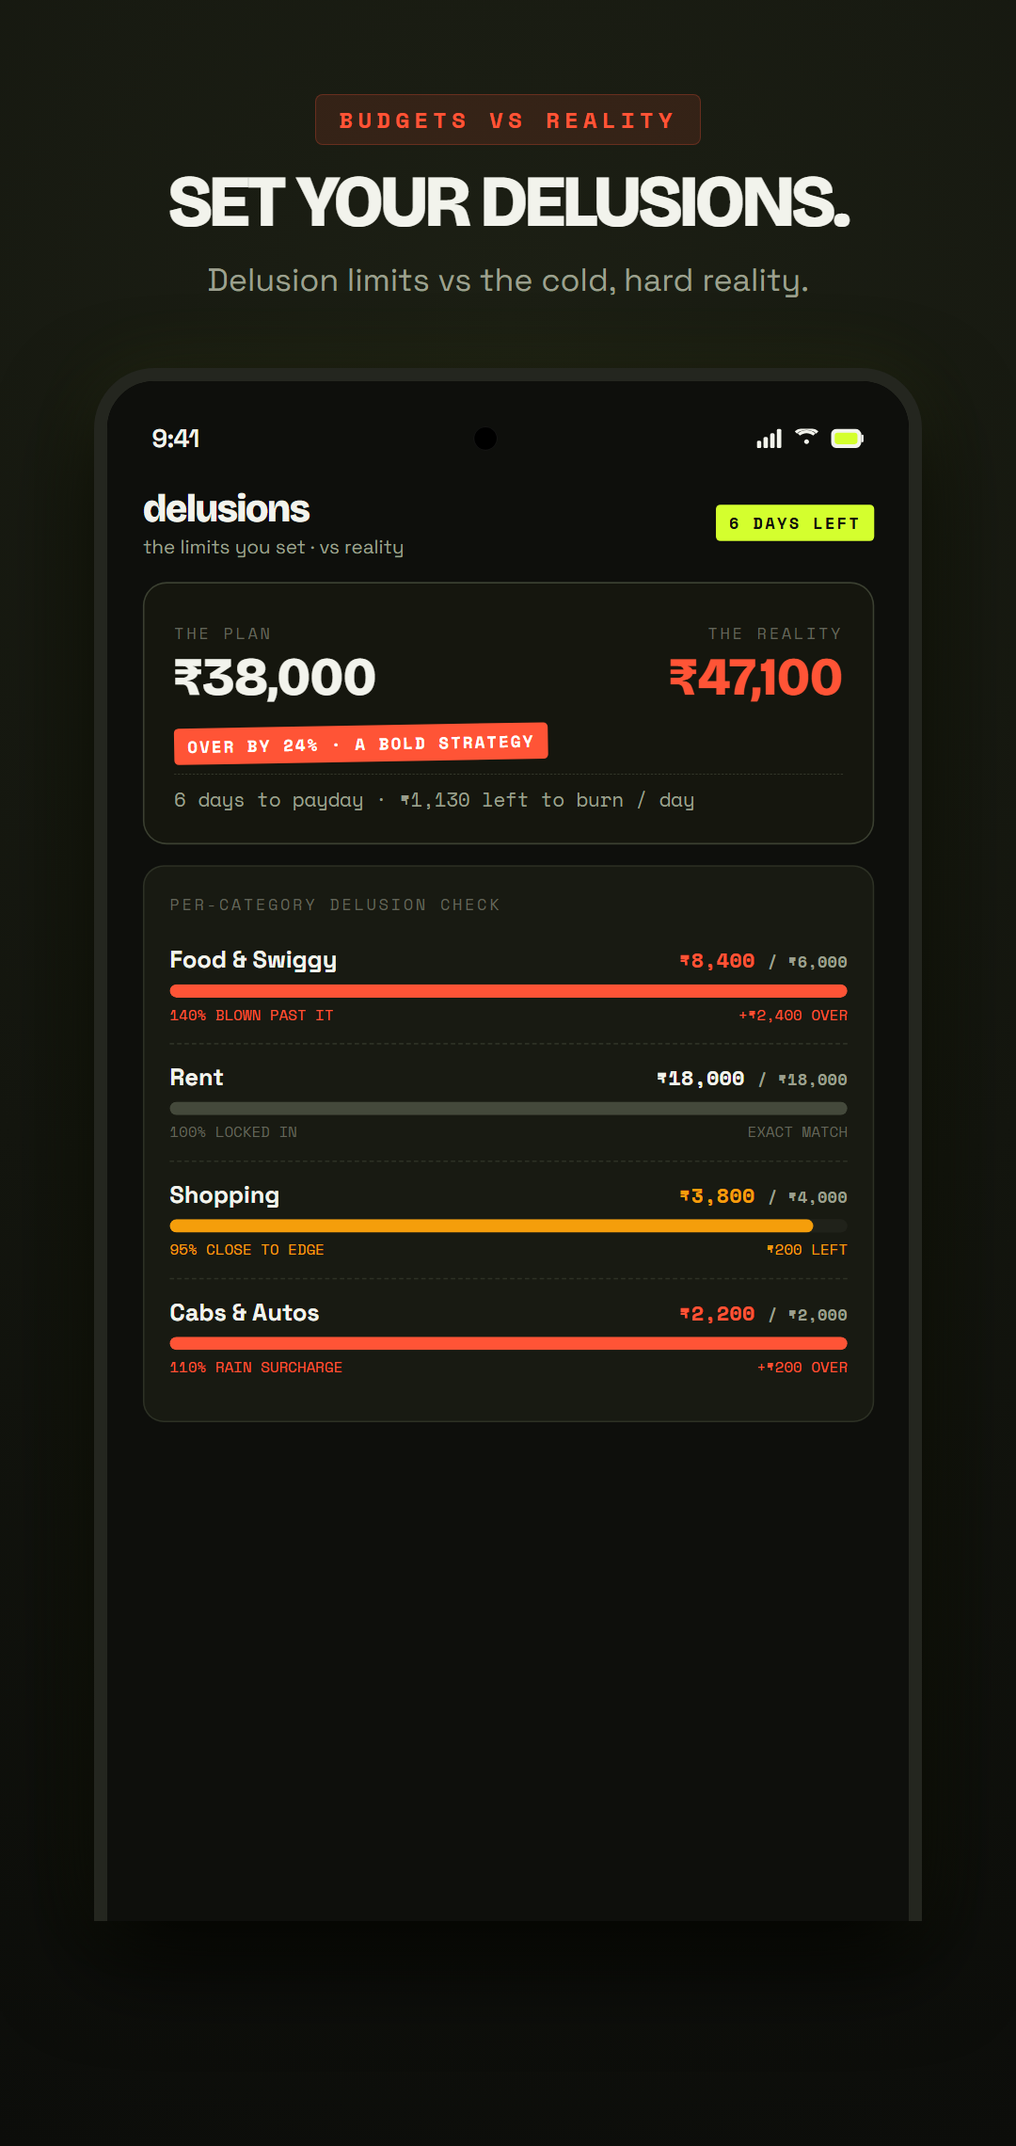
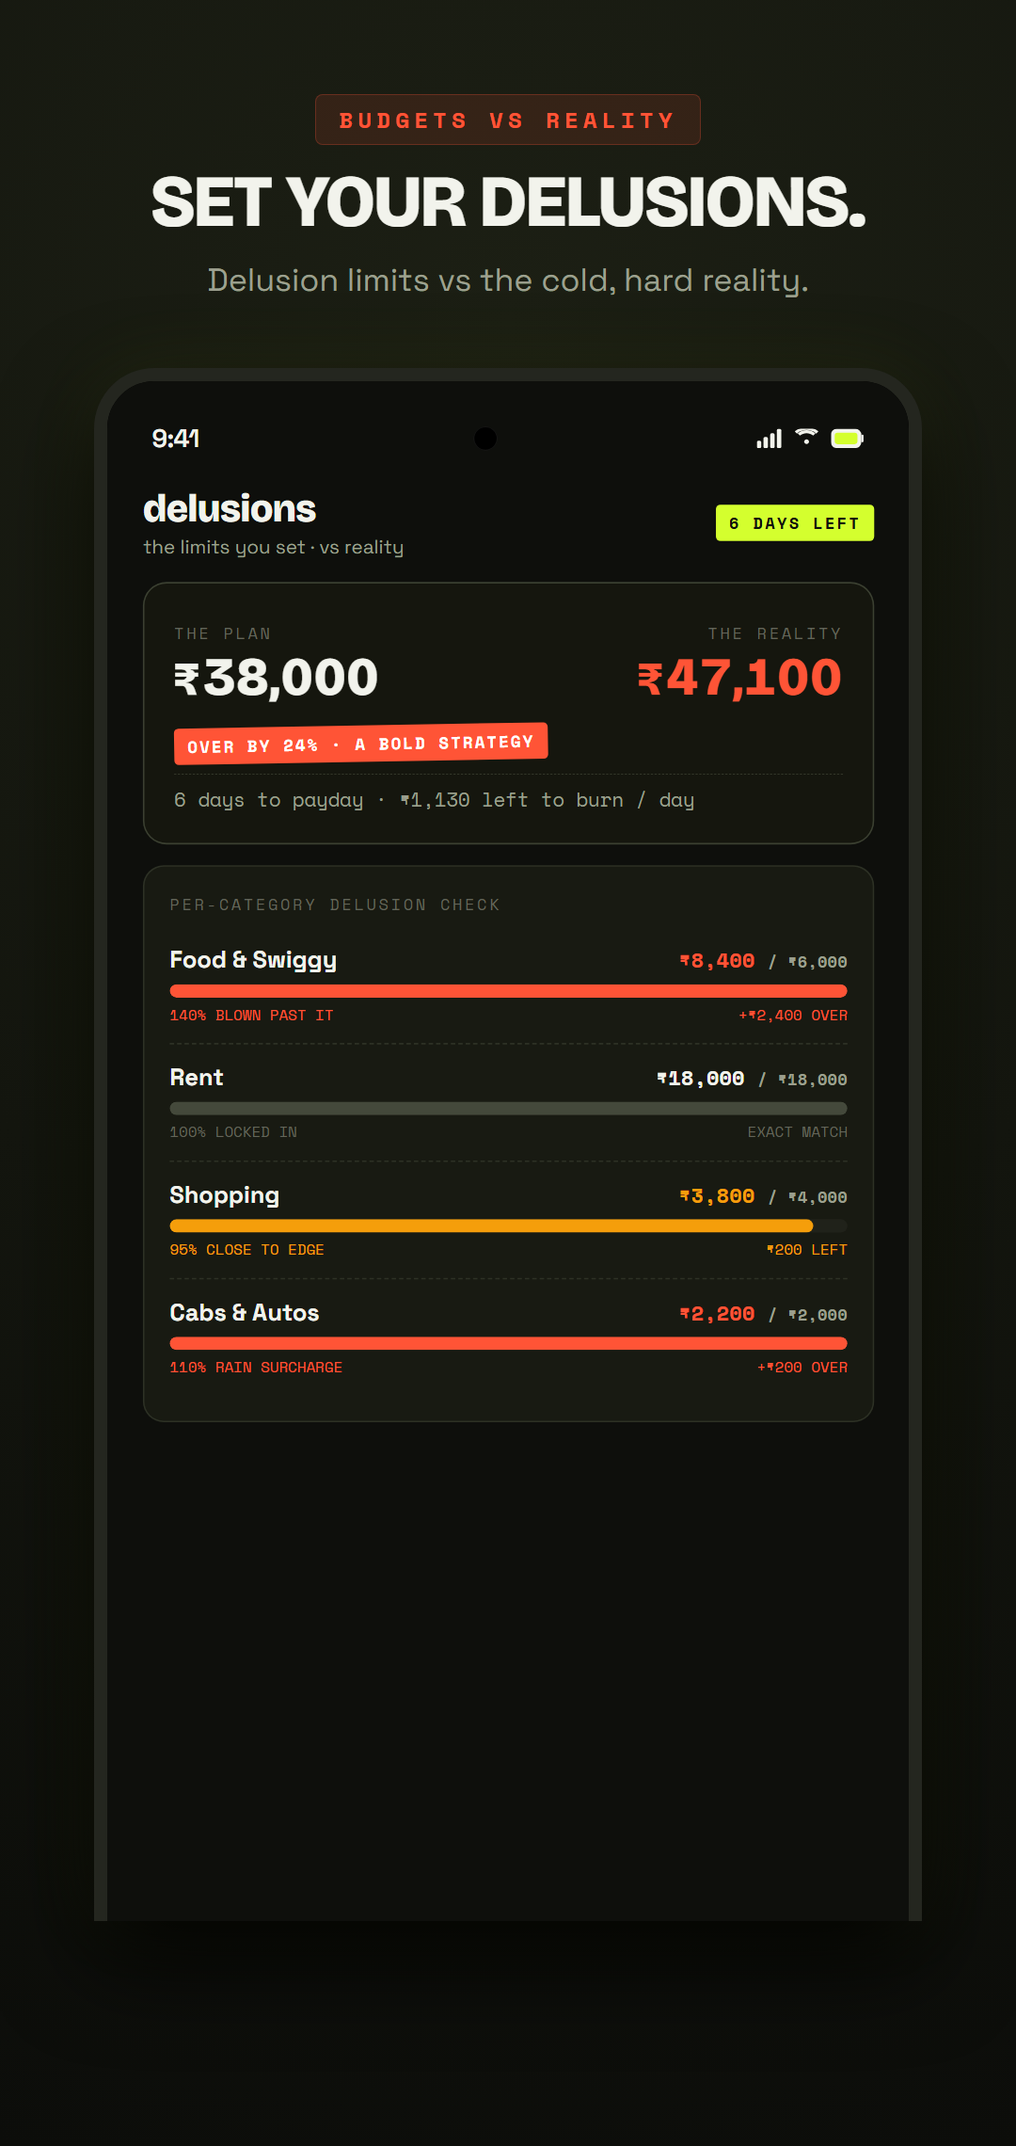
style: remove em dashes and fix congested typography in hero amount and screenshots

diff --git a/src/services/aiAdvice.js b/src/services/aiAdvice.js
@@ -19,13 +19,13 @@ function buildSystemPrompt(tone, nihil) {
 Write exactly 3 verdict lines about this month's spending. Each must:
 - Reference real rupee amounts from the data
 - Be specific and personal, not generic advice
-- Be 1–2 sentences max
+- Be 1-2 sentences max
 
 Return a JSON array of exactly 3 objects:
 [{"tag": "FOOD", "line": "...", "sub": "..."}]
-- "tag": 4–6 char UPPERCASE category label (FOOD, MOVE, DOOM, SHOP, SUBS, RENT, etc.)
+- "tag": 4-6 char UPPERCASE category label (FOOD, MOVE, DOOM, SHOP, SUBS, RENT, etc.)
 - "line": the verdict sentence(s)
-- "sub": a dry 3–6 word footnote
+- "sub": a dry 3-6 word footnote
 
 Examples for dry tone:
 [
@@ -49,7 +49,7 @@ export async function askAI({ question, cats, total, income }) {
     ? `Monthly income: ₹${income.toLocaleString('en-IN')}. Spent: ₹${Math.round(total).toLocaleString('en-IN')} (${Math.round(total / income * 100)}%).`
     : `Total spent: ₹${Math.round(total).toLocaleString('en-IN')}.`;
   const catCtx = cats.slice(0, 5).map(c => `${c.label}: ₹${Math.round(c.amount).toLocaleString('en-IN')}`).join(', ');
-  const system = 'You are Tally, a personal finance AI for Indian users. Answer concisely in 2–3 sentences. Reference specific rupee amounts from the spending data. No markdown, no bullet points, no emoji.';
+  const system = 'You are Tally, a personal finance AI for Indian users. Answer concisely in 2-3 sentences. Reference specific rupee amounts from the spending data. No markdown, no bullet points, no emoji.';
   const content = `Spending data: ${incomeCtx} Categories: ${catCtx}.\n\nQuestion: ${question}`;
   try {
     return await callAnthropic(system, content);
@@ -134,7 +134,7 @@ function buildFallbackVerdict(cats, total, income, tone) {
     const c = cats[1];
     results.push(unhinged
       ? { tag: c.tag, line: `₹${fmt(c.amount)} on ${c.label.toLowerCase()} too. two-front war on your wallet.`, sub: 'the second biggest hole' }
-      : { tag: c.tag, line: `${c.label} at ₹${fmt(c.amount)} — runner-up damage.`, sub: 'second largest category' }
+      : { tag: c.tag, line: `${c.label} at ₹${fmt(c.amount)} · runner-up damage.`, sub: 'second largest category' }
     );
   }
 

diff --git a/src/tally/screens/TxDetailSheet.js b/src/tally/screens/TxDetailSheet.js
@@ -195,7 +195,7 @@ export default function TxDetailSheet({ visible, tx, onClose }) {
             <Rule T={T} />
             <View style={{ paddingVertical: 13 }}><Leader T={T} label="type" value={credit ? 'credit' : 'debit'} /></View>
             <Rule T={T} />
-            <View style={{ paddingVertical: 13 }}><Leader T={T} label="when" value={tx.when || '—'} /></View>
+            <View style={{ paddingVertical: 13 }}><Leader T={T} label="when" value={tx.when || '-'} /></View>
             <Rule T={T} />
           </View>
 
@@ -210,7 +210,7 @@ export default function TxDetailSheet({ visible, tx, onClose }) {
                   <View key={t.id}>
                     {i > 0 && <Rule T={T} />}
                     <View style={{ flexDirection: 'row', justifyContent: 'space-between', alignItems: 'center', paddingVertical: 9 }}>
-                      <MonoLabel T={T} color={T.dim} size={10.5}>{t.when || t.txn_date?.slice(0, 10) || '—'}</MonoLabel>
+                      <MonoLabel T={T} color={T.dim} size={10.5}>{t.when || t.txn_date?.slice(0, 10) || '-'}</MonoLabel>
                       <Text style={{ fontFamily: FONTS.monoBold, fontSize: 13, color: T.text }}>−{fmtINR(t.amount)}</Text>
                     </View>
                   </View>

diff --git a/src/tally/screens/HomeScreen.js b/src/tally/screens/HomeScreen.js
@@ -13,7 +13,7 @@ import { writeWidgetCache } from '../../services/widgetSync';
 function buildRead(top, total) {
   if (!top || total <= 0) return "no damage logged yet. suspicious, honestly.";
   const pct = Math.round((top.amount / total) * 100);
-  return `${fmtINR(top.amount)} on ${top.label.toLowerCase()} — ${pct}% of everything. bold strategy.`;
+  return `${fmtINR(top.amount)} on ${top.label.toLowerCase()} · ${pct}% of everything. bold strategy.`;
 }
 
 // Local calendar-day key (not toISOString, which is UTC and rolls back to the
@@ -349,7 +349,7 @@ export default function HomeScreen({ navigation }) {
           <MonoLabel T={T} color={T.dim} size={9.5} style={{ marginTop: 3 }}>spends</MonoLabel>
         </View>
         <View style={{ flex: 1, backgroundColor: T.card, borderWidth: 1, borderColor: T.line, borderRadius: 14, padding: 14 }}>
-          <Text style={{ fontFamily: FONTS.display, fontSize: 22, color: accent }}>{top ? top.tag : '—'}</Text>
+          <Text style={{ fontFamily: FONTS.display, fontSize: 22, color: accent }}>{top ? top.tag : '-'}</Text>
           <MonoLabel T={T} color={T.dim} size={9.5} style={{ marginTop: 3 }}>
             {top ? `top · ${fmtINR(top.amount)}` : 'no top yet'}
           </MonoLabel>

diff --git a/src/tally/screens/Paywall.js b/src/tally/screens/Paywall.js
@@ -6,7 +6,7 @@ import { FONTS } from '../theme';
 import { MonoLabel, Btn, Tag, Brand } from '../ui';
 
 const PERKS = [
-  ['FULL', 'every transaction, forever — not just 30 days'],
+  ['FULL', 'every transaction, forever · not just 30 days'],
   ['AI++', 'unlimited unhinged verdicts + weekly roasts'],
   ['RECEIPT', 'hi-res shareable receipts, no watermark'],
   ['BANKS', 'connect unlimited accounts & cards'],
@@ -125,7 +125,7 @@ export default function Paywall({ visible, onClose }) {
 
             <View style={{ marginTop: 18 }}>
               <Btn T={T} accent={accent} accentInk={accentInk} onPress={handlePurchase} disabled={busy || rcLoading}>
-                {busy ? <ActivityIndicator color={accentInk} size="small" /> : 'start — first 7 days free'}
+                {busy ? <ActivityIndicator color={accentInk} size="small" /> : 'start · first 7 days free'}
               </Btn>
             </View>
 

diff --git a/landing/index.html b/landing/index.html
@@ -3,9 +3,9 @@
 <head>
 <meta charset="UTF-8" />
 <meta name="viewport" content="width=device-width, initial-scale=1.0" />
-<title>tally — track the damage</title>
+<title>tally · track the damage</title>
 <meta name="description" content="A snarky AI money manager that reads your bank SMS, logs every spend, and tells you how badly you blew it. Coming soon." />
-<meta property="og:title" content="tally — track the damage. financially feral." />
+<meta property="og:title" content="tally · track the damage. financially feral." />
 <meta property="og:description" content="The money app for people who already know it's bad and want to watch anyway." />
 <link rel="preconnect" href="https://fonts.googleapis.com" />
 <link rel="preconnect" href="https://fonts.gstatic.com" crossorigin />

diff --git a/src/tally/screens/BudgetScreen.js b/src/tally/screens/BudgetScreen.js
@@ -98,7 +98,7 @@ export default function BudgetScreen() {
         <View style={{ marginTop: 24, backgroundColor: T.card, borderWidth: 1, borderColor: T.line, borderRadius: 16, padding: 20 }}>
           <MonoLabel T={T} color={T.dim} size={10.5}>no delusions set yet.</MonoLabel>
           <Text style={{ fontFamily: FONTS.sans, fontSize: 14, lineHeight: 20, color: T.dim, marginTop: 8 }}>
-            set a monthly limit for any category below. we'll tell you when you're about to blow it — and when you already have.
+            set a monthly limit for any category below. we'll tell you when you're about to blow it, and when you already have.
           </Text>
         </View>
       )}

diff --git a/src/tally/screens/DamageScreen.js b/src/tally/screens/DamageScreen.js
@@ -179,7 +179,7 @@ export default function DamageScreen() {
           <View style={{ paddingVertical: 16, borderBottomWidth: 1.5, borderStyle: 'dashed',
             borderBottomColor: T.lineStrong, gap: 11 }}>
             {cats.length === 0
-              ? <MonoLabel T={T} color={T.faint} size={11}>nothing logged yet — suspiciously clean.</MonoLabel>
+              ? <MonoLabel T={T} color={T.faint} size={11}>nothing logged yet · suspiciously clean.</MonoLabel>
               : cats.map((c) => {
                 const prev = prevMap[c.id] || 0;
                 const delta = prev > 0 ? Math.round((c.amount - prev) / prev * 100) : null;

diff --git a/src/components/ErrorBoundary.js b/src/components/ErrorBoundary.js
@@ -44,7 +44,7 @@ export class ErrorBoundary extends React.Component {
           something broke.
         </Text>
         <Text style={{ color: DIM, fontSize: 14, textAlign: 'center', marginTop: 10, lineHeight: 20 }}>
-          your data's safe — this was just a display crash. tap below to try again.
+          your data's safe. this was just a display crash. tap below to try again.
         </Text>
         <Pressable onPress={this.handleReload}
           style={{ marginTop: 24, backgroundColor: ACCENT, borderRadius: 12, paddingVertical: 13, paddingHorizontal: 28 }}>

diff --git a/src/services/categoriser.js b/src/services/categoriser.js
@@ -12,7 +12,7 @@ Rules:
 - Return ONLY a JSON array, no explanation
 - Each item: { "index": number, "category": string, "confidence": number (0-1) }
 - confidence < 0.5 → use "other"
-- Be decisive — pick best match, never null`;
+- Be decisive: pick best match, never null`;
 
 async function callAnthropic(systemPrompt, userContent) {
   const { data, error } = await supabase.functions.invoke('anthropic-proxy', {

diff --git a/scripts/generate_screenshots.py b/scripts/generate_screenshots.py
@@ -111,7 +111,7 @@ body {
   font-family: var(--display);
   font-weight: 800;
   font-size: 54px;
-  letter-spacing: -0.04em;
+  letter-spacing: -0.01em;
 }
 .pill {
   font-family: var(--mono);
@@ -283,8 +283,14 @@ def build_screen_dashboard():
   font-weight: 800;
   font-size: 112px;
   line-height: 1.0;
-  letter-spacing: -0.04em;
-  margin: 12px 0 18px;
+  letter-spacing: 0.02em;
+  font-variant-numeric: tabular-nums;
+  margin: 14px 0 18px;
+}}
+.hero-amount .curr {{
+  font-size: 0.88em;
+  margin-right: 8px;
+  font-weight: 700;
 }}
 .ai-read {{
   font-size: 30px;
@@ -407,9 +413,9 @@ def build_screen_dashboard():
         <span class="mono-label">the damage so far · nov 2026</span>
         <span style="font-family:var(--mono); font-size:24px; color:var(--red); font-weight:700;">+10% vs oct</span>
       </div>
-      <div class="hero-amount">₹47,100</div>
+      <div class="hero-amount"><span class="curr">₹</span>47,100</div>
       <div class="ai-read">
-        "₹18,400 on food & swiggy — 39% of everything. bold strategy."
+        "₹18,400 on food & swiggy · 39% of everything. bold strategy."
       </div>
 
       <span class="mono-label" style="font-size:20px;">last 7 days</span>
@@ -622,7 +628,7 @@ def build_screen_feed():
   {STATUS_BAR_HTML}
   <div class="content">
     <div class="screen-header">
-      <div style="font-family:var(--display); font-weight:800; font-size:52px; letter-spacing:-0.03em;">the feed</div>
+      <div style="font-family:var(--display); font-weight:800; font-size:52px; letter-spacing:-0.01em;">the feed</div>
       <div style="display:flex; align-items:center; gap:14px;">
         <span class="mono-label" style="font-size:24px; color:var(--red);">18 HITS</span>
       </div>
@@ -784,7 +790,7 @@ def build_screen_insights():
   {STATUS_BAR_HTML}
   <div class="content">
     <div class="screen-header">
-      <div style="font-family:var(--display); font-weight:800; font-size:52px; letter-spacing:-0.03em;">the damage</div>
+      <div style="font-family:var(--display); font-weight:800; font-size:52px; letter-spacing:-0.01em;">the damage</div>
       <span class="mono-label" style="font-size:24px; color:var(--text);">&lt; NOV 2026 &gt;</span>
     </div>
 
@@ -793,7 +799,7 @@ def build_screen_insights():
       <div style="display:flex; justify-content:space-between; align-items:flex-start;">
         <div>
           <span class="mono-label">total damage · nov</span>
-          <div style="font-family:var(--display); font-weight:800; font-size:96px; margin:6px 0;">₹47,100</div>
+          <div style="font-family:var(--display); font-weight:800; font-size:96px; letter-spacing:0.02em; font-variant-numeric:tabular-nums; margin:6px 0;"><span style="font-size:0.88em; margin-right:6px;">₹</span>47,100</div>
         </div>
         <span class="pill" style="transform:rotate(-2deg); font-size:20px;">FINANCIALLY FERAL</span>
       </div>
@@ -881,6 +887,12 @@ def build_screen_budgets():
   font-family: var(--display);
   font-weight: 800;
   font-size: 72px;
+  letter-spacing: 0.02em;
+  font-variant-numeric: tabular-nums;
+}}
+.plan-num .curr {{
+  font-size: 0.88em;
+  margin-right: 4px;
 }}
 .budget-bar-bg {{
   height: 18px;
@@ -914,7 +926,7 @@ def build_screen_budgets():
   <div class="content">
     <div class="screen-header">
       <div>
-        <div style="font-family:var(--display); font-weight:800; font-size:52px; letter-spacing:-0.03em;">delusions</div>
+        <div style="font-family:var(--display); font-weight:800; font-size:52px; letter-spacing:-0.01em;">delusions</div>
         <div style="font-size:26px; color:var(--dim); margin-top:4px;">the limits you set · vs reality</div>
       </div>
       <span class="pill pill-acid">6 DAYS LEFT</span>
@@ -925,11 +937,11 @@ def build_screen_budgets():
       <div class="plan-vs-real">
         <div>
           <span class="mono-label">the plan</span>
-          <div class="plan-num" style="color:var(--text);">₹38,000</div>
+          <div class="plan-num" style="color:var(--text);"><span class="curr">₹</span>38,000</div>
         </div>
         <div style="text-align:right;">
           <span class="mono-label">the reality</span>
-          <div class="plan-num" style="color:var(--red);">₹47,100</div>
+          <div class="plan-num" style="color:var(--red);"><span class="curr">₹</span>47,100</div>
         </div>
       </div>
 
@@ -1096,7 +1108,7 @@ def build_screen_pro():
       {TALLY_MARK_SVG}
       <span class="pill" style="font-size:22px;">PRO</span>
     </div>
-    <div style="font-family:var(--display); font-weight:800; font-size:68px; letter-spacing:-0.03em;">tally pro.</div>
+    <div style="font-family:var(--display); font-weight:800; font-size:68px; letter-spacing:-0.01em;">tally pro.</div>
     <div style="font-size:30px; color:var(--dim); margin-bottom:28px;">you know it's bad. make it official.</div>
 
     <!-- Perks -->
@@ -1220,7 +1232,7 @@ def build_screen_settings():
   <div class="content">
     <div class="screen-header">
       <div>
-        <div style="font-family:var(--display); font-weight:800; font-size:52px; letter-spacing:-0.03em;">settings</div>
+        <div style="font-family:var(--display); font-weight:800; font-size:52px; letter-spacing:-0.01em;">settings</div>
         <div style="font-size:26px; color:var(--dim); margin-top:4px;">aditya@gmail.com</div>
       </div>
       <span class="pill">PRO ACTIVE</span>
@@ -1358,7 +1370,7 @@ body {{
   font-weight: 800;
   font-size: 78px;
   line-height: 1.05;
-  letter-spacing: -0.04em;
+  letter-spacing: -0.015em;
   margin-bottom: 18px;
   color: #F2F3EC;
 }}
@@ -1454,7 +1466,7 @@ body {{
   font-family: 'Bricolage Grotesque', sans-serif;
   font-weight: 800;
   font-size: 46px;
-  letter-spacing: -0.04em;
+  letter-spacing: -0.01em;
 }}
 .kicker {{
   font-family: 'Space Mono', monospace;
@@ -1472,7 +1484,7 @@ body {{
   font-weight: 800;
   font-size: 52px;
   line-height: 1.05;
-  letter-spacing: -0.035em;
+  letter-spacing: -0.015em;
   margin-bottom: 16px;
 }}
 .tagline span {{
@@ -1529,7 +1541,7 @@ body {{
     <!-- Floating Card 1 -->
     <div class="floating-card card-1">
       <div style="font-family:'Space Mono'; font-size:11px; color:#63655A; text-transform:uppercase; letter-spacing:0.1em;">the damage so far</div>
-      <div style="font-family:'Bricolage Grotesque'; font-size:44px; font-weight:800; margin:4px 0 8px;">₹47,100</div>
+      <div style="font-family:'Bricolage Grotesque'; font-size:44px; font-weight:800; letter-spacing:0.02em; font-variant-numeric:tabular-nums; margin:4px 0 8px;"><span style="font-size:0.88em; margin-right:4px;">₹</span>47,100</div>
       <div style="font-size:13px; color:#9DA08F; font-style:italic;">"₹18,400 on food. you ate the rent, basically."</div>
     </div>
 

diff --git a/README.md b/README.md
@@ -1,4 +1,4 @@
-# Tally — track the damage.
+# Tally · track the damage.
 
 <p align="center">
   <img src="docs/screenshots/feature_graphic.png" alt="Tally Feature Graphic" width="100%" />
@@ -20,12 +20,12 @@
 ---
 
 ## What it does
-- **Zero-effort tracking** — captures bank and UPI transaction alerts in the background (Android Notification Listener & Headless JS) and parses them into structured expenses, so you never log a transaction by hand.
-- **AI categorization & roast** — an AI that tells you the truth about your spending habits, not a cheerful chart pretending everything is fine.
-- **Privacy-first** — raw SMS/notifications aren't persisted; local on-device extraction, and in-app cascade account deletion.
-- **Budgets vs Reality ("Delusions")** — set monthly limits per category and track your daily burn rate to payday.
-- **Premium tier** — entitlement-based Pro (RevenueCat) with unlimited history, weekly roasts, and home-screen broke-streak widget.
-- **Coming-soon landing** — Supabase-backed waitlist at `landing/`.
+- **Zero-effort tracking**: captures bank and UPI transaction alerts in the background (Android Notification Listener & Headless JS) and parses them into structured expenses, so you never log a transaction by hand.
+- **AI categorization & roast**: an AI that tells you the truth about your spending habits, not a cheerful chart pretending everything is fine.
+- **Privacy-first**: raw SMS/notifications aren't persisted; local on-device extraction, and in-app cascade account deletion.
+- **Budgets vs Reality ("Delusions")**: set monthly limits per category and track your daily burn rate to payday.
+- **Premium tier**: entitlement-based Pro (RevenueCat) with unlimited history, weekly roasts, and home-screen broke-streak widget.
+- **Coming-soon landing**: Supabase-backed waitlist at `landing/`.
 
 ## Stack
 React Native (Expo SDK 56) · Supabase (Postgres) · server-side AI parsing (Anthropic) · RevenueCat · EAS Build
@@ -36,7 +36,7 @@ npm install
 cp .env.example .env
 npx expo start
 ```
-> Background capture uses native modules, so run a **development build** (EAS) — not Expo Go.
+> Background capture uses native modules, so run a **development build** (EAS) (not Expo Go).
 
 See [PRIVACY.md](PRIVACY.md), [DEPLOY.md](DEPLOY.md), and [docs/STORE_LISTING.md](docs/STORE_LISTING.md) for details.
 

diff --git a/docs/STORE_LISTING.md b/docs/STORE_LISTING.md
@@ -1,17 +1,17 @@
-# Google Play Store Listing — Tally
+# Google Play Store Listing · Tally
 
 Voice: lowercase, deadpan, snarky. Matches landing page (`landing/index.html`)
 and in-app copy (Paywall perks: FULL / AI++ / RECEIPT / BANKS / WIDGET).
 
 Capture method is described by outcome ("auto-logs the moment it happens"),
-not by permission mechanism — avoids over-committing the listing to SMS
+not by permission mechanism, avoiding over-committing the listing to SMS
 specifically, since notification-listener is the safer primary path (see
 [PLAY_SMS_DECLARATION.md](PLAY_SMS_DECLARATION.md)).
 
 ---
 
 ## App name (30 char max)
-Tally — track the damage
+Tally · track the damage
 
 ## Short description (80 char max)
 auto-logs every spend, roasts you for it. zero manual entry.
@@ -21,13 +21,13 @@ auto-logs every spend, roasts you for it. zero manual entry.
 you know it's bad. tally just makes it official.
 
 tally watches your bank and UPI apps and logs every transaction the second
-it happens — no typing, no receipts, no "I'll add it later" that never
+it happens: no typing, no receipts, no "I'll add it later" that never
 happens. debit, credit, doesn't matter. if money moved, tally saw it.
 
 **what it does**
 - auto-logs transactions in real time, straight from your bank/UPI apps
-- sorts everything into categories automatically — food, transport,
-  shopping, the works
+- sorts everything into categories automatically (food, transport,
+  shopping, the works)
 - an AI that actually tells you the truth about your spending, not a
   cheerful chart pretending everything's fine
 - budgets with alerts before you blow past them, not after
@@ -42,7 +42,7 @@ happens. debit, credit, doesn't matter. if money moved, tally saw it.
 - home-screen widget for your live broke-streak
 
 **your data, straight**
-tally never reads or stores your messages — only the transaction details
+tally never reads or stores your messages: only the transaction details
 (amount, merchant, date) get pulled out and saved. nothing else. we don't
 sell your data, ever. full breakdown in the privacy policy, linked below.
 
